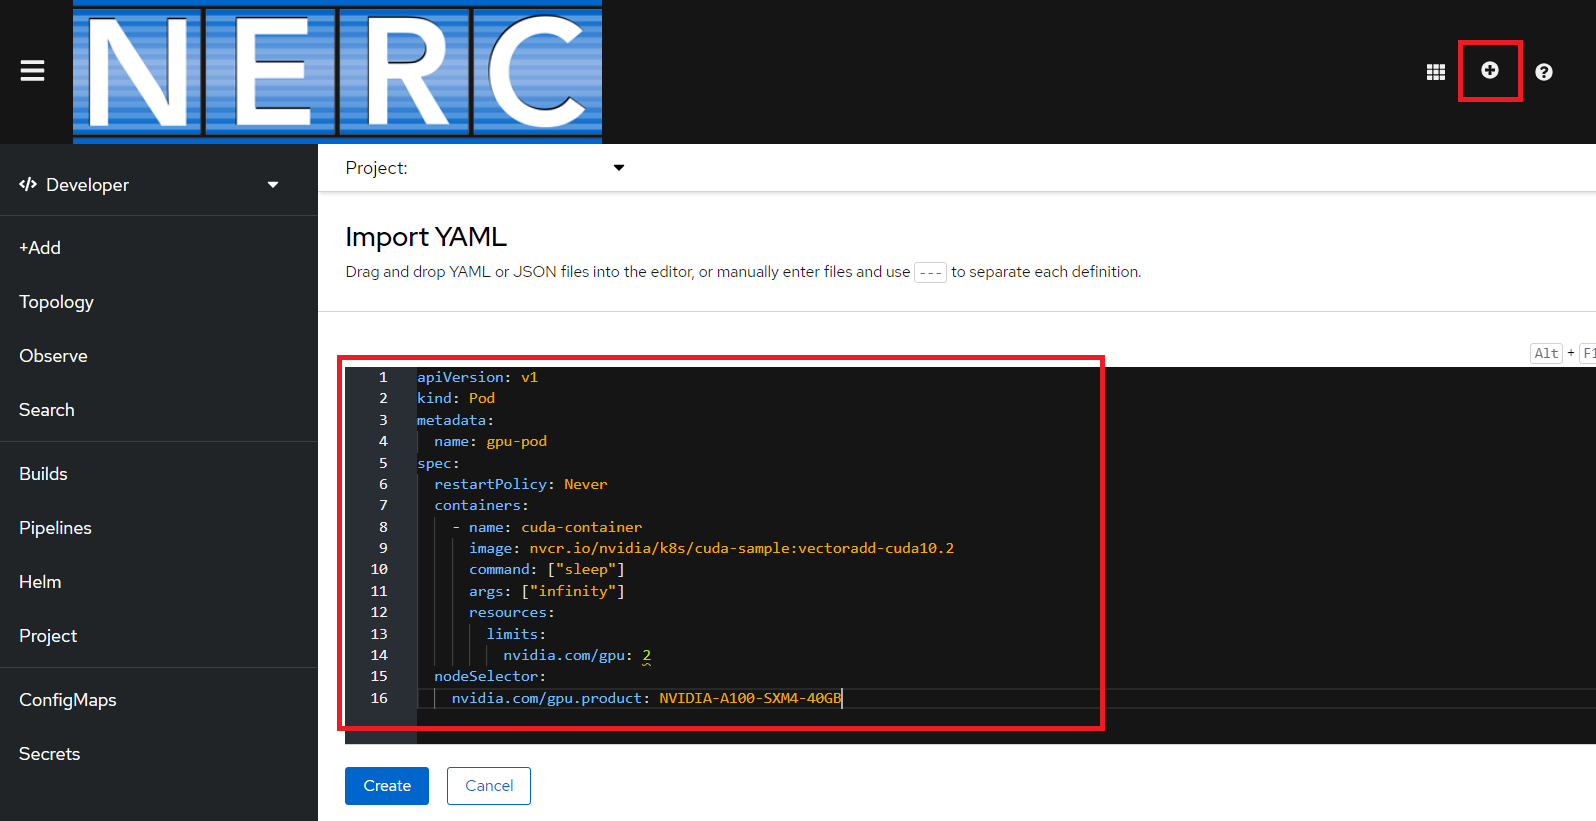
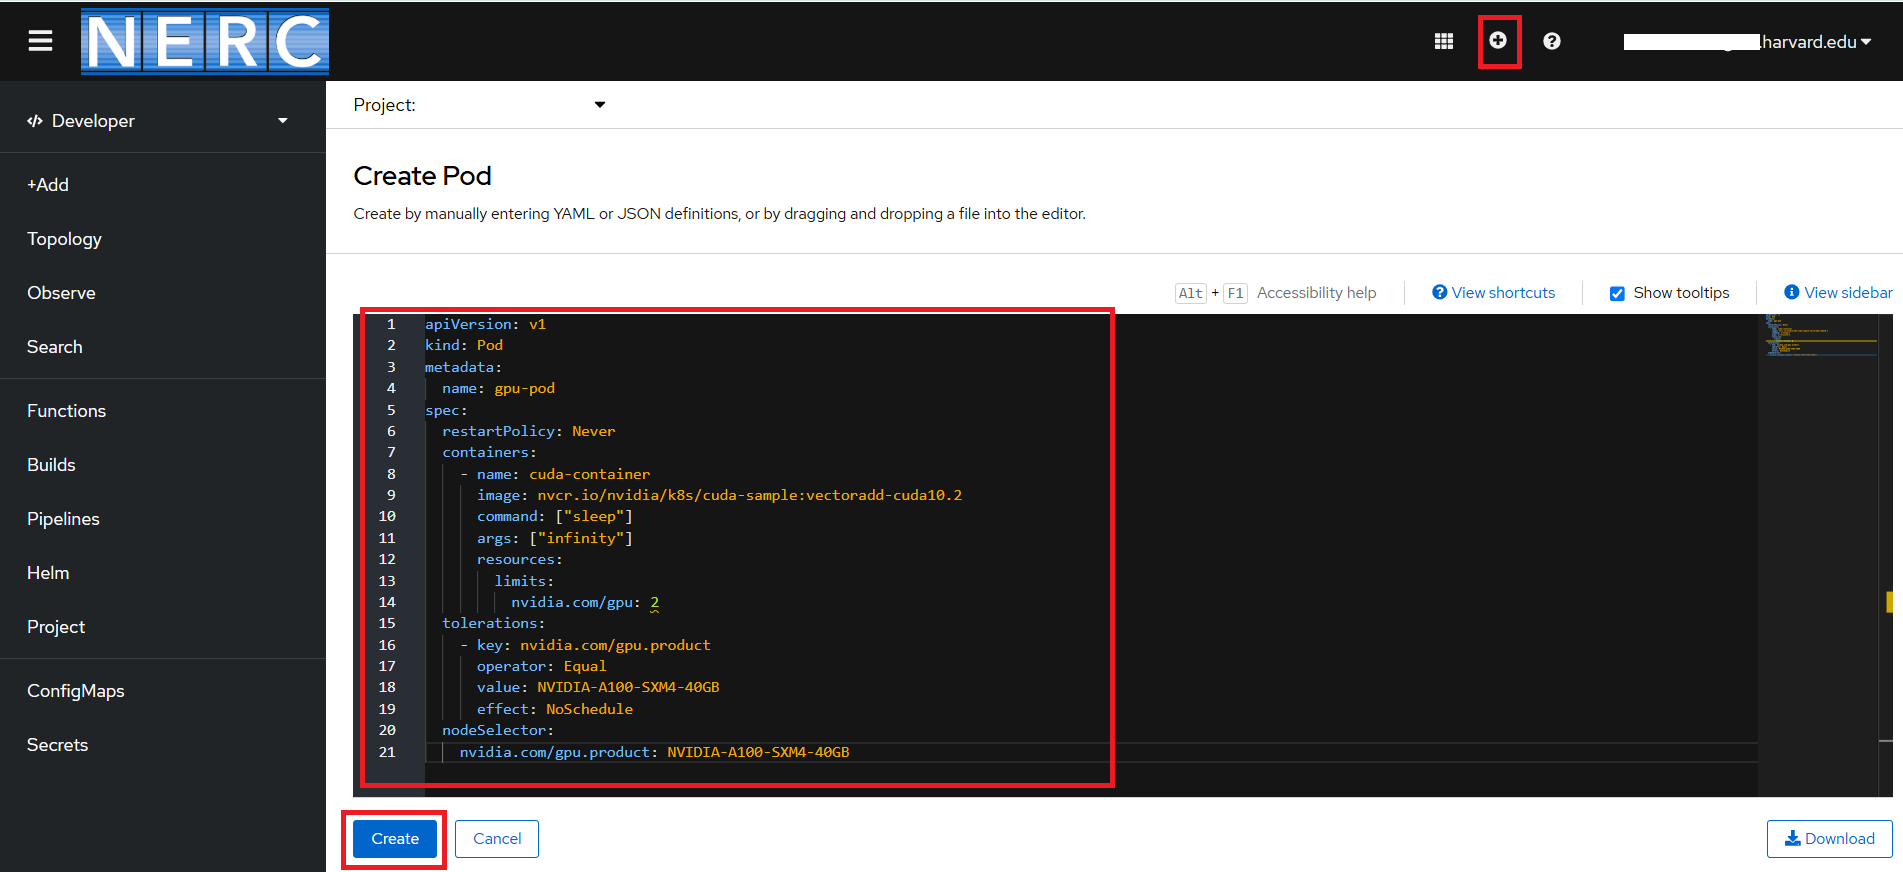
updated gpu pod example with tolerations section

diff --git a/docs/openshift/applications/scaling-and-performance-guide.md b/docs/openshift/applications/scaling-and-performance-guide.md
@@ -193,6 +193,11 @@ a running pod YAML that requests the GPU device with a count of 2:
           resources:
             limits:
               nvidia.com/gpu: 2
+      tolerations:
+        - key: nvidia.com/gpu.product
+          operator: Equal
+          value: NVIDIA-A100-SXM4-40GB
+          effect: NoSchedule
       nodeSelector:
         nvidia.com/gpu.product: NVIDIA-A100-SXM4-40GB
 
